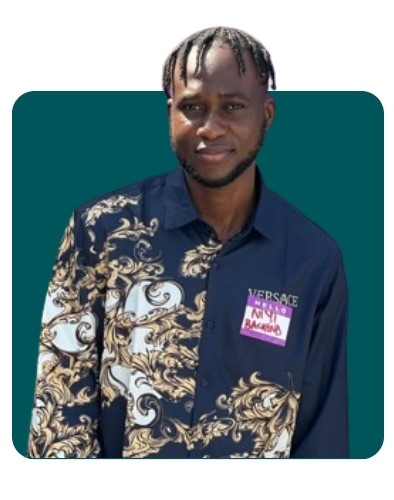
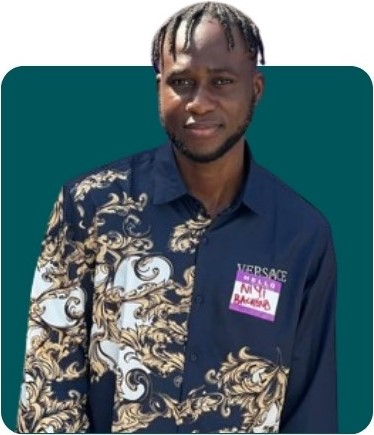
update on js

diff --git a/index.js b/index.js
@@ -4,6 +4,8 @@ document.addEventListener("DOMContentLoaded", function () {
     const menuIcon = document.querySelector(".fa-solid.fa-bars");
     var header = document.querySelector(".header");
     var navLinks = document.querySelectorAll(".navbar a");
+    // const lightMode = document.getElementById("lightmode-img");
+    // const darkMode = document.getElementById("darkmode-img");
   
     function handleScroll() {
       var scrollPosition = window.scrollY || document.documentElement.scrollTop;
@@ -53,9 +55,13 @@ document.addEventListener("DOMContentLoaded", function () {
         if (isDarkMode) {
             themeToggle.classList.remove('fa-moon');
             themeToggle.classList.add('fa-sun');
+            lightMode.style.display = "none";
+            darkMode.style.display = "block";
         } else {
             themeToggle.classList.remove('fa-sun');
             themeToggle.classList.add('fa-moon');
+            lightMode.style.display = "block";
+            darkMode.style.display = "none";
         }
     });
 });

diff --git a/index.css b/index.css
@@ -346,10 +346,11 @@ span {
     gap: 4rem;
 }
 
-.about-img img{
+.about-img #lightmode-img, #darkmode-img{
     width: 20vw;
     justify-content: center;
     align-items: center;
+    border-radius: 15px;
 }
 
 .heading {
